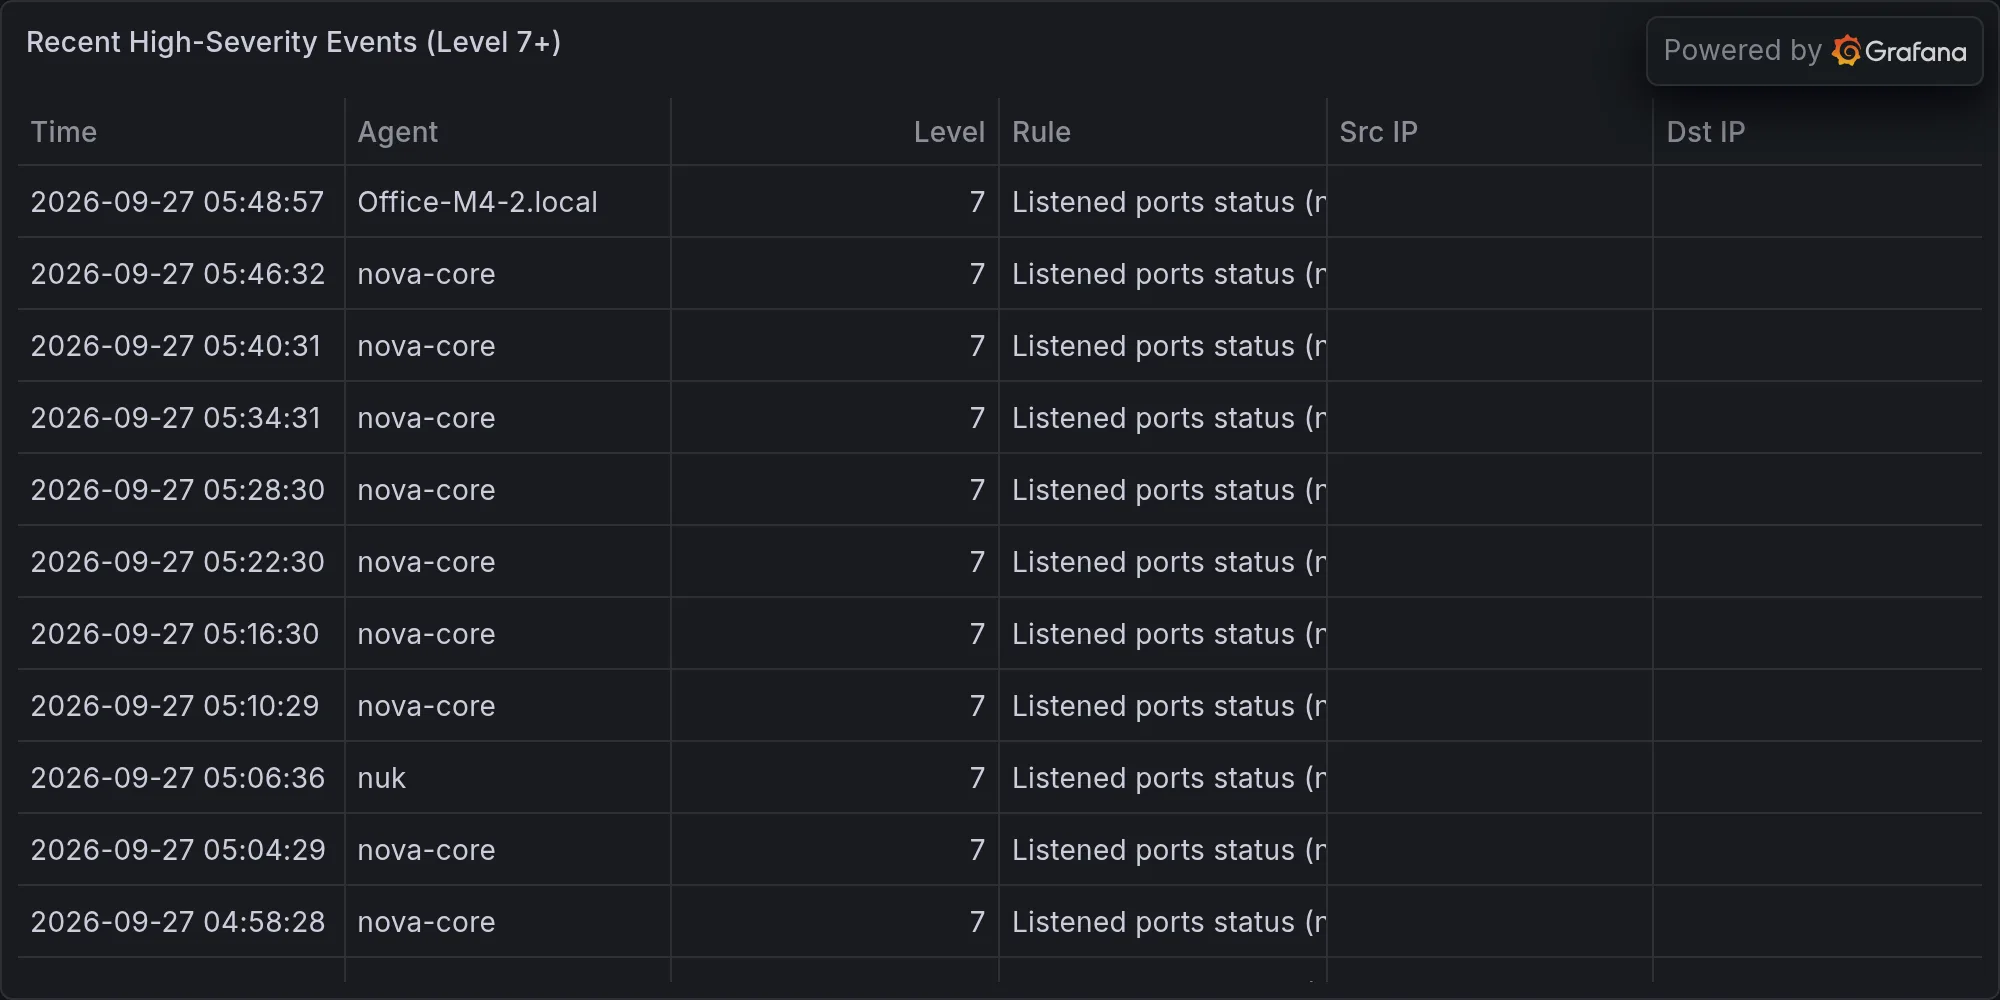
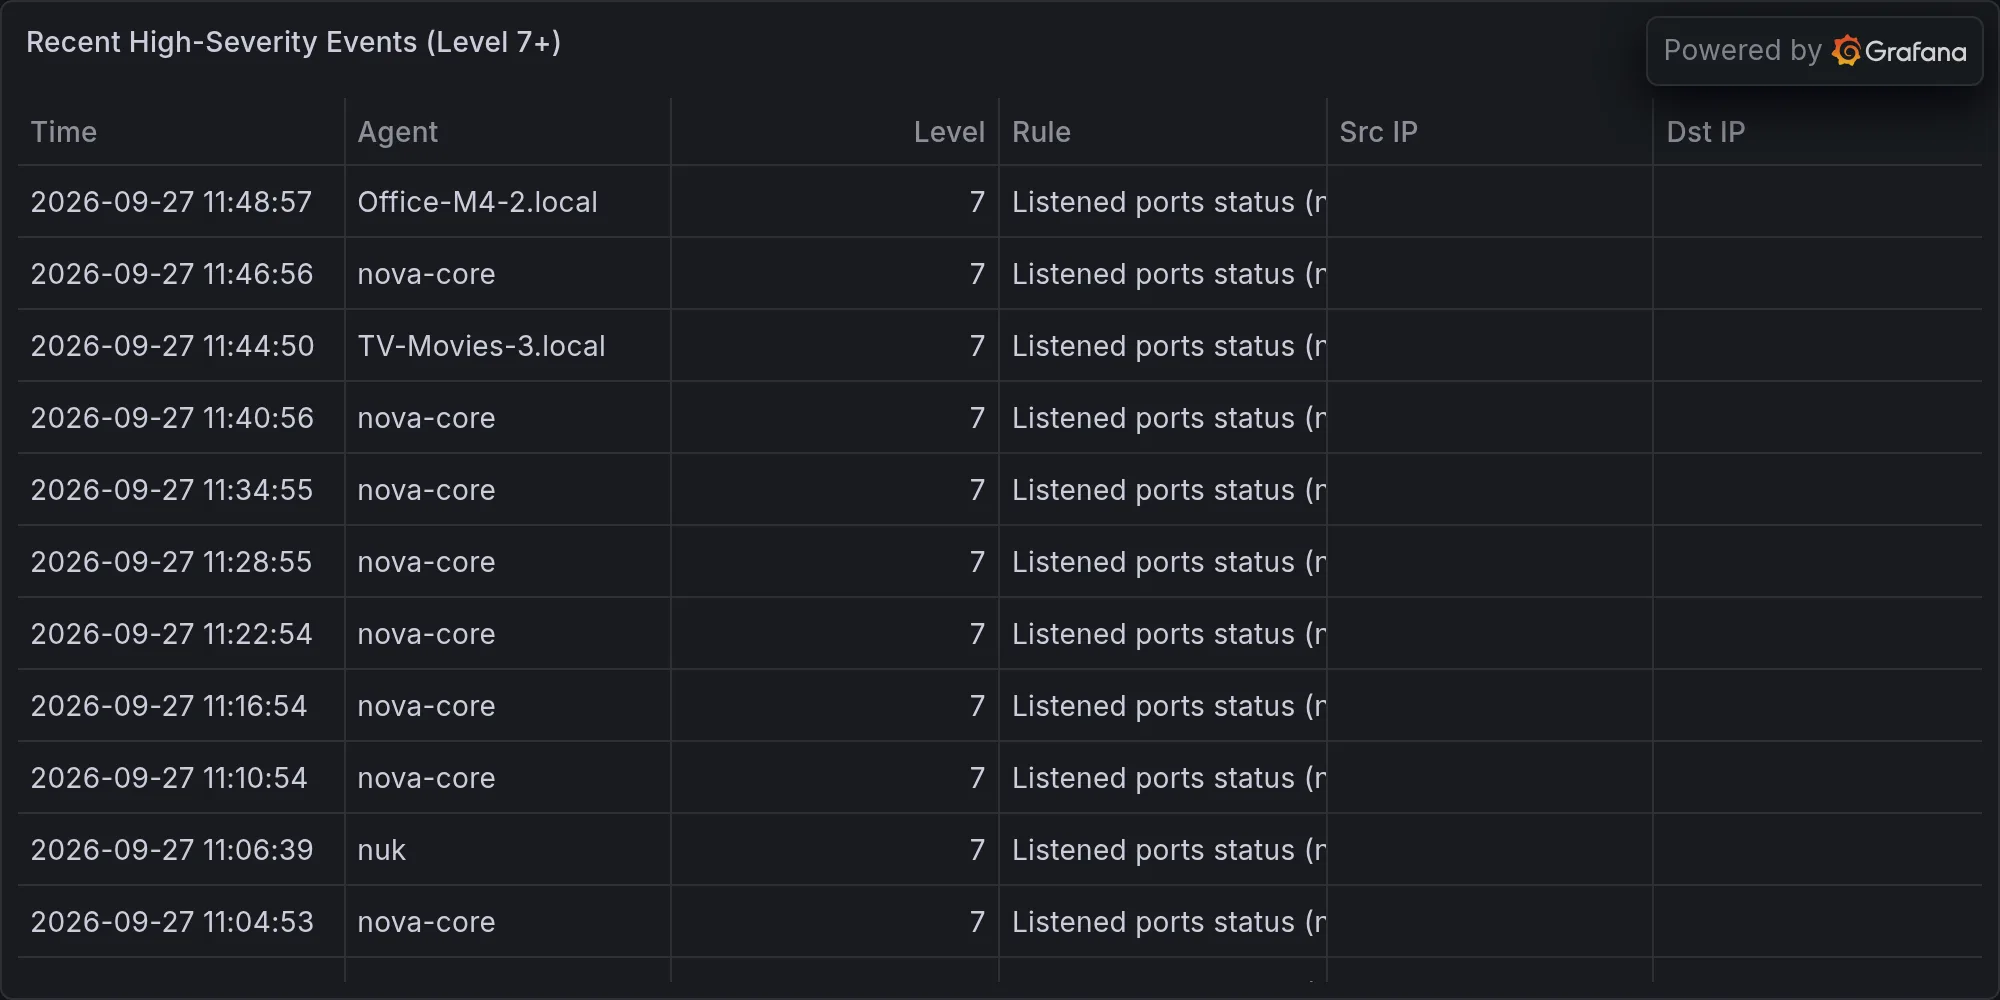
security: 2026-09-27 — **BREAKING: Two Citrix NetScaler RCE Zero-Days Und

diff --git a/content/operations/2026-09-27-breaking-two-citrix-netscaler-rce-zero-days-under-active-exp.md b/content/operations/2026-09-27-breaking-two-citrix-netscaler-rce-zero-days-under-active-exp.md
@@ -1,0 +1,69 @@
+---
+title: "🛡 **BREAKING: Two Citrix NetScaler RCE Zero-Days Under Active Exploitation**"
+date: 2026-09-27T11:51:56-07:00
+draft: false
+categories: ["operations"]
+tags: ["breaking-alert", "tenable-blog-frequently-asked-questions-", "security"]
+description: "BREAKING: Tenable Blog: Frequently asked questions about reported Citrix NetScaler zero-day vulnerabilities (c"
+cover:
+  image: "/images/operations/2026-09-27-breaking-two-citrix-netscaler-rce-zero-days-under-active-exp.webp"
+  alt: "**BREAKING: Two Citrix NetScaler RCE Zero-Days Under Active Exploitation**"
+  relative: false
+---
+
+*Published Sunday, September 27, 2026 at 11:51 AM PT*
+
+![**BREAKING: Two Citrix NetScaler RCE Zero-Days Under Active Exploitation**](/images/operations/2026-09-27-breaking-two-citrix-netscaler-rce-zero-days-under-active-exp.webp)
+
+**BLUF:** Citrix has confirmed two zero-day remote code execution (RCE) vulnerabilities in NetScaler are actively being exploited in the wild. These flaws permit unauthenticated attackers to execute arbitrary code on affected gateways. Organizations running NetScaler should immediately assess exposure and coordinate emergency patching. CISA is urging government agencies to prioritize remediation.
+
+**DETAILS:**
+
+- **Two unpatched RCE flaws confirmed:** Citrix has verified two high-severity zero-day remote code execution vulnerabilities in NetScaler. Both allow unauthenticated or low-privilege remote attack.
+
+- **Active exploitation in progress:** Multiple security vendors (Tenable, BleepingComputer, securityweek, securityaffairs, The Hacker News) report these vulnerabilities are currently being exploited by threat actors in the wild.
+
+- **Dutch National Cyber Security Center involvement:** A report originating from the Dutch national cyber security center cited these flaws, lending credibility to the threat intelligence. Public discussion accelerated via Reddit's r/Citrix community.
+
+- **No patch availability confirmed as of September 26:** References indicate these remain "unpatched" — patch status as of report date (Sep 26, 2026) shows no public fix available yet. Citrix has issued urgent advisories but release timeline is unclear.
+
+- **NetScaler criticality:** NetScaler is a ubiquitous network gateway deployed by government agencies, enterprises, and service providers worldwide. Compromise directly threatens internal networks and hosted services.
+
+**IMPACT:**
+
+Organizations running Citrix NetScaler—particularly government agencies, financial institutions, healthcare, and cloud/SaaS providers—face immediate risk of:
+- Unauthorized remote code execution leading to full gateway compromise
+- Lateral movement into internal networks and hosted customer environments
+- Data exfiltration and persistent backdoor installation
+- Service disruption or takeover of critical ingress points
+
+The breadth of NetScaler deployment and the unauthenticated nature of the flaws suggest high attack surface.
+
+**RECOMMENDED ACTIONS:**
+
+1. **Immediate assessment:** Identify all NetScaler deployments in your infrastructure (gateways, ADCs, WAFs). Confirm NetScaler version and gather asset inventory.
+
+2. **Containment:** If patching is not immediately available, implement enhanced monitoring on NetScaler endpoints for anomalous RCE indicators (process spawning, reverse shells, unexpected outbound connections). Restrict administrative access. Segment gateways where operationally feasible.
+
+3. **Watch for Citrix patch:** Monitor Citrix security advisories and CISA alerts for patch release. Apply immediately upon availability, prioritizing production gateways.
+
+4. **Incident hunt:** If your organization uses NetScaler externally, assume potential compromise. Review access logs, gateway logs, and EDR telemetry for exploitation signatures dating back to early September 2026 or earlier.
+
+5. **CISA compliance:** If you operate U.S. federal or critical infrastructure systems, comply with CISA's patching mandate once a fix is released.
+
+**SOURCES:**
+
+- Tenable Blog (Citrix NetScaler zero-day FAQs)
+- BleepingComputer (Citrix confirms NetScaler RCE zero-days)
+- The Hacker News (Unpatched Citrix NetScaler RCE under active exploitation)
+- securityaffairs, securityweek (Citrix confirmations and active exploitation reports)
+- CISA alerts to government agencies
+- Reddit r/Citrix (community reports)
+
+**STATUS:** Developing — patch status and full CVE details pending Citrix public disclosure.
+
+---
+
+**Recent high-severity events at publish time:**
+
+![Recent high-severity events](/images/operations/2026-09-27-breaking-alert-posture.webp)
